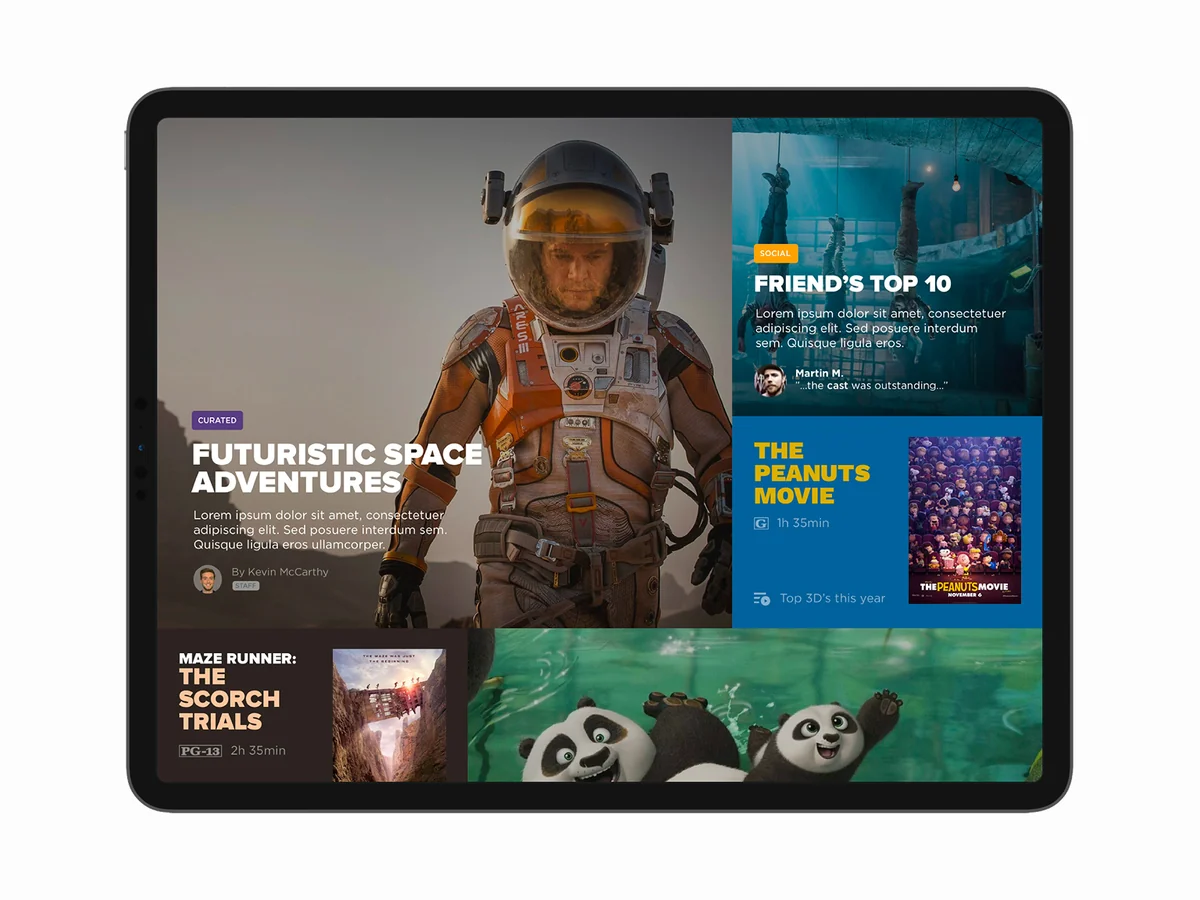
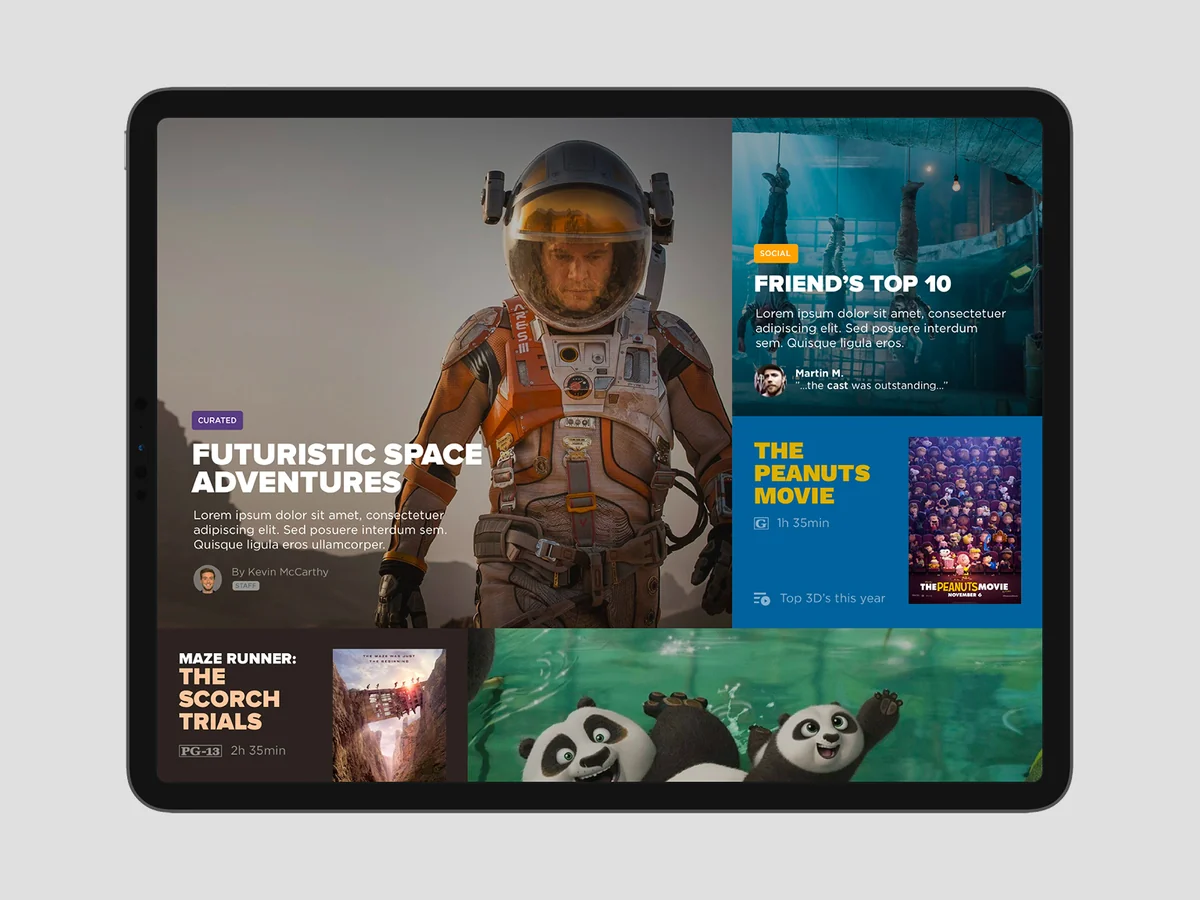
Update News Corp case and cover images with dark variants

diff --git a/index.html b/index.html
@@ -739,7 +739,7 @@ ul,ol{margin:0;padding:0;list-style:none}
     </dl>
   </div>
   <div class="wrap">
-    <figure class="fig"><button data-cap="Curated collections with an editor’s point of view"><img src="img/nc-3.jpg" alt="Tablet showing a curated movie collection"></button></figure>
+    <figure class="fig"><button data-cap="Curated collections with an editor’s point of view"><img class="img-light" src="img/nc-collection.webp" width="1600" height="960" alt="Tablet showing a curated movie collection"><img class="img-dark" src="img/nc-collection-dark.webp" width="1600" height="960" alt="Tablet showing a curated movie collection"></button></figure>
     <section class="chapter split">
       <p class="t-label t-muted">01 · Concept</p>
       <div>
@@ -748,8 +748,8 @@ ul,ol{margin:0;padding:0;list-style:none}
       </div>
     </section>
     <div class="chapter figs" style="padding-top:var(--s-l)">
-      <figure class="fig c7"><button data-cap="Editorial and social video magazine"><img src="img/nc-2.jpg" alt="Tablet UI with curated collections and friends’ picks" loading="lazy"></button><figcaption class="t-label">Video magazine home</figcaption></figure>
-      <figure class="fig c5"><button data-cap="Featured title in a collection"><img src="img/nc-1.jpg" alt="Tablet showing a featured title" loading="lazy"></button><figcaption class="t-label">Featured title</figcaption></figure>
+      <figure class="fig c6"><button data-cap="Editorial and social video magazine"><img class="img-light" src="img/nc-home.webp" width="1600" height="960" alt="Tablet UI with curated collections and friends’ picks" loading="lazy"><img class="img-dark" src="img/nc-home-dark.webp" width="1600" height="960" alt="Tablet UI with curated collections and friends’ picks" loading="lazy"></button><figcaption class="t-label">Video magazine home</figcaption></figure>
+      <figure class="fig c6"><button data-cap="Featured title in a collection"><img class="img-light" src="img/nc-featured.webp" width="1600" height="960" alt="Tablet showing a featured title" loading="lazy"><img class="img-dark" src="img/nc-featured-dark.webp" width="1600" height="960" alt="Tablet showing a featured title" loading="lazy"></button><figcaption class="t-label">Featured title</figcaption></figure>
     </div>
     <a class="next" href="#lahitapiola"><p class="t-label t-muted">Back to the first case · LähiTapiola</p><p class="t-display"><span>Design leadership &amp; Duet</span><span class="go">→</span></p></a>
   </div>
